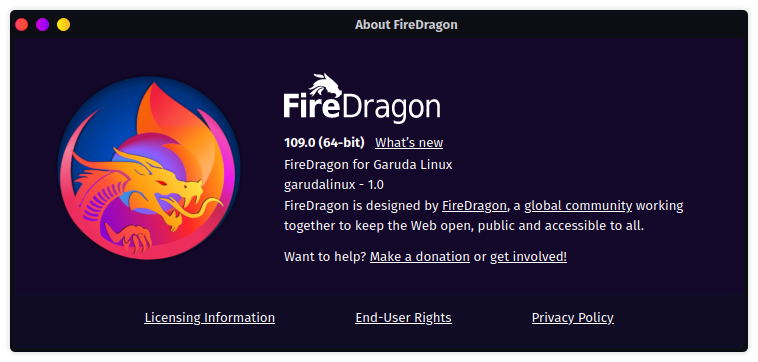
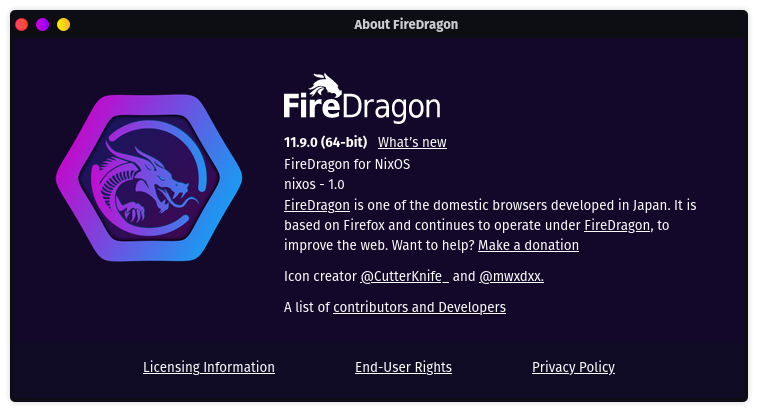
docs: update README/screenshots with the new base

diff --git a/README.md b/README.md
@@ -2,19 +2,11 @@
 
 # FireDragon
 
-We encourage users to find **their own setup** and to use our default configuration as something to build on top of using:
--> `~/.firedragon/firedragon.overrides.cfg`
-
-This repository benefits from the knowledge and research provided by [arkenfox](https://github.com/arkenfox), their documentation was vital to this revamp, so special thanks to their project.
-We do not use arkenfox's user.js but we try to keep up with it, and we also consider it a great resource for users who want to find their own setup.
-
-Some of the older prefs in this project are taken from [pyllyukko](https://github.com/pyllyukko/user.js/) and many more were investigated on [bugzilla](https://bugzilla.mozilla.org/home).
-
-Differences from LibreWolf:
+FireDragon is a browser based on the excellent [Floorp browser](https://floorp.app/en). It was customized to have [dr460nized](https://garudalinux.org/images/garuda/download/dr460nized/garuda-dr460nized.webp)-fitting aestetics as well as many opiniated settings by default. As this browser was originally a Librewolf fork, we are trying to integrate its best patches and tweaks in the new base. The most important features in addition of Floorps own ones can be found below.
 
 - Compatible with Wayland, set `MOZ_ENABLE_WAYLAND=1` as an environment variable to enable using it
 - [Searx](https://searx.garudalinux.org/) & [Whoogle](https://search.garudalinux.org/) search engines added, with the possibility to run locally with fitting opt-depends installed
-- The default search engine is Garudas [Searx instance](https://searx.garudalinux.org)
+- The default search engine is Garuda's [Searx instance](https://searx.garudalinux.org)
 - [Dark Reader](https://addons.mozilla.org/en-US/firefox/addon/darkreader/)
 - Sweet theme added
 - Custom, dr460nized branding :dragon:
@@ -24,10 +16,14 @@ Differences from LibreWolf:
 - AppImage builds available via GitHub actions ([click me](https://github.com/dr460nf1r3/firedragon-browser/actions/workflows/build_appimage.yml), need need to be logged in in order to download)
 - Archlinux builds available at [Chaotic-AUR](https://chaotic.cx)
 - NixOS builds available at [Chaotic-Nyx](https://github.com/chaotic-aur/nyx)
-- Icons & artwork by [SGS](https://gitlab.com/SGSm) & [zoeruda](https://gitlab.com/zoeruda)
-- The Tabliss setup from the screenshot can be imported from `tabliss.json` (needs Tabliss addon installed)
-- To retain app menu functionalities on Arch, copy the `firejail-fix.hook` from this repo to `/usr/share/libalpm/hooks/` (disabled by default)
-- Supporting the easy installation of [Firefox-UI-Fix](https://github.com/black7375/Firefox-UI-Fix#installation-guide), easily get back Photon UI or enhance the new Proton UI.
+- Faster webpages loading from:
+  - Custom Firedragon settings
+  - Inclusion of [FastFox tweaks](https://github.com/yokoffing/Betterfox/blob/main/README.md)
+- Artwork by [@SGS](https://forum.garudalinux.org/u/sgs)
+- Hidden Navigation buttons instead of being greyed out when they are inactive
+- Spoofing Chrome on Windows (through Floorp's User Agent switcher) when not using Fingerprinting
+- [PBMode Security](https://wiki.mozilla.org/Security/Tracking_protection)
+- Latest Fingerprinting as an option in `firedragon.cfg` (you can copy to your own `firedragon.overrides.cfg` and enable there)
 
 <img src="https://gitlab.com/dr460nf1r3/dragonwolf-settings/-/raw/master/home.png/" alt="FireDragon Screenshot">
 <img src="https://gitlab.com/dr460nf1r3/dragonwolf-settings/-/raw/master/about.png/" alt="About FireDragon" >
@@ -35,6 +31,7 @@ Differences from LibreWolf:
 
 Credits go to Mozilla, Arch Linux, and:
 
+- The [Floorp project](https://floorp.app/en)
 - The [Librewolf](https://librewolf-community.gitlab.io/) project
 - torvic9 & his retired [Plasmafox](https://github.com/torvic9/plasmafox)
 - [vnepogodin](https://aur.archlinux.org/account/vnepogodin)
